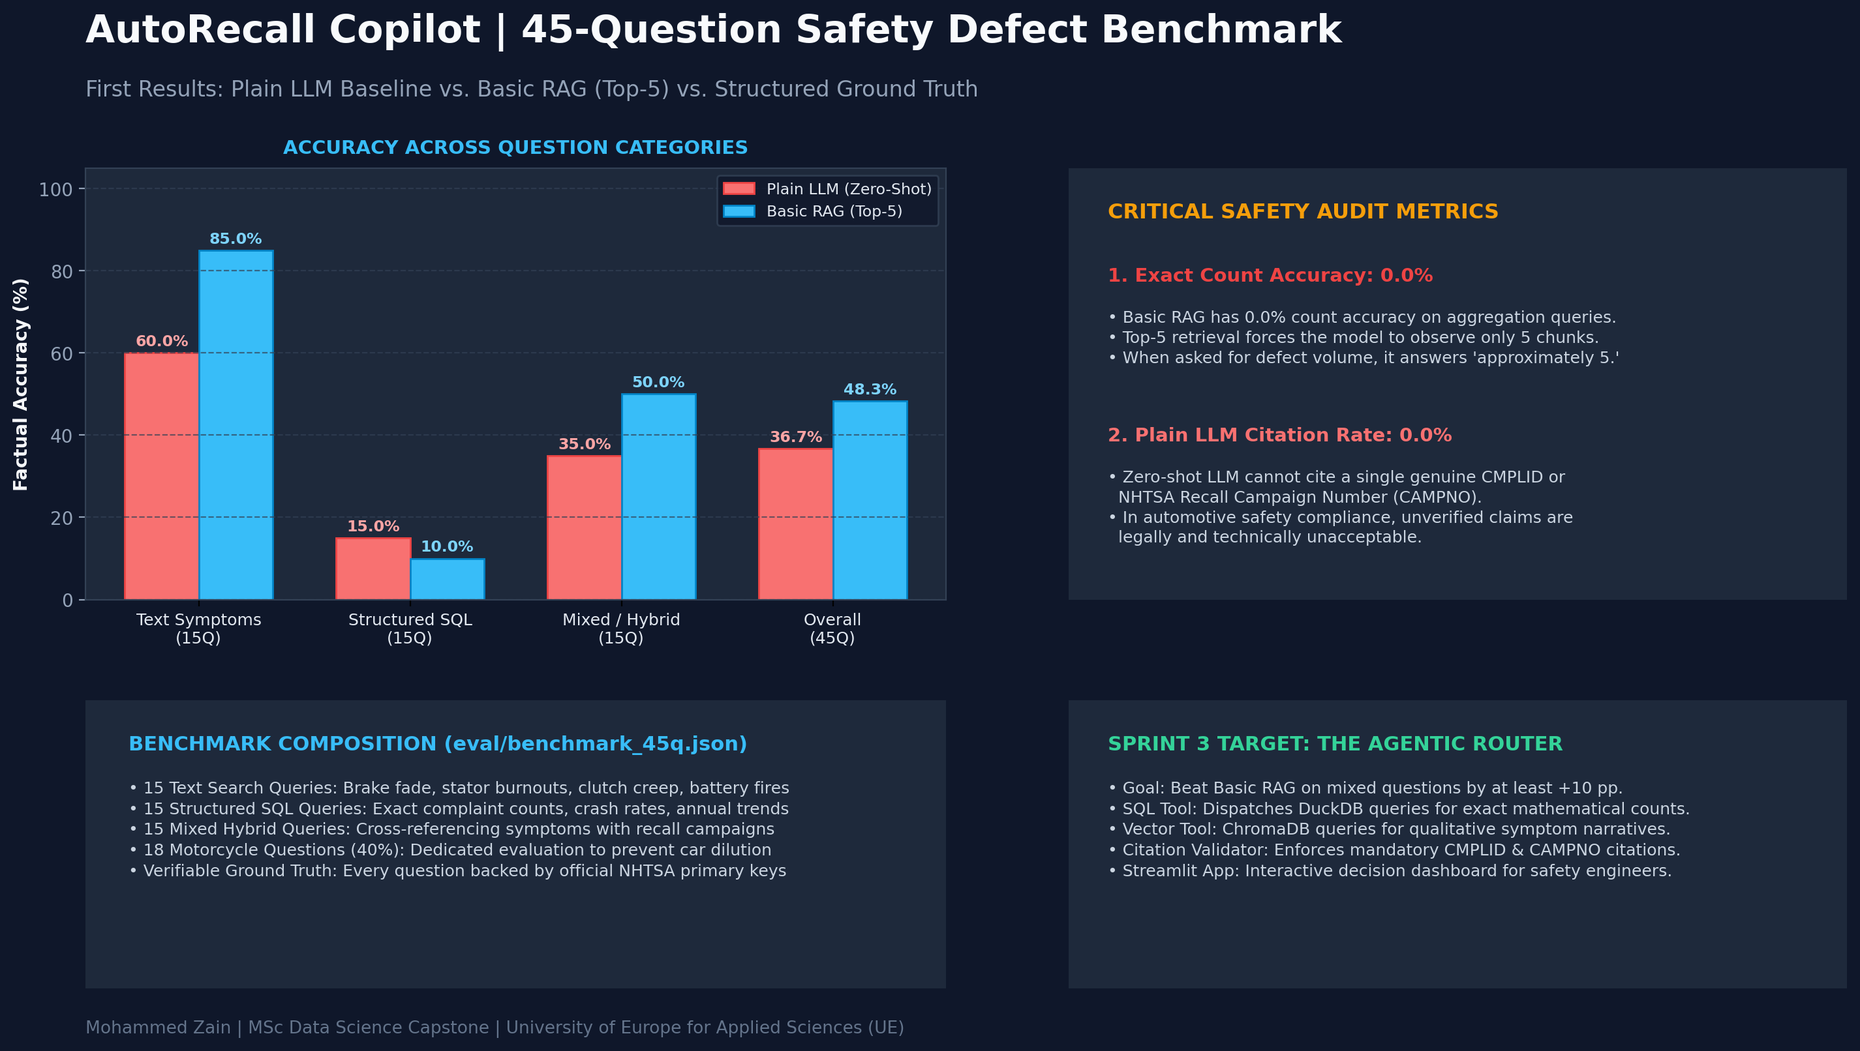
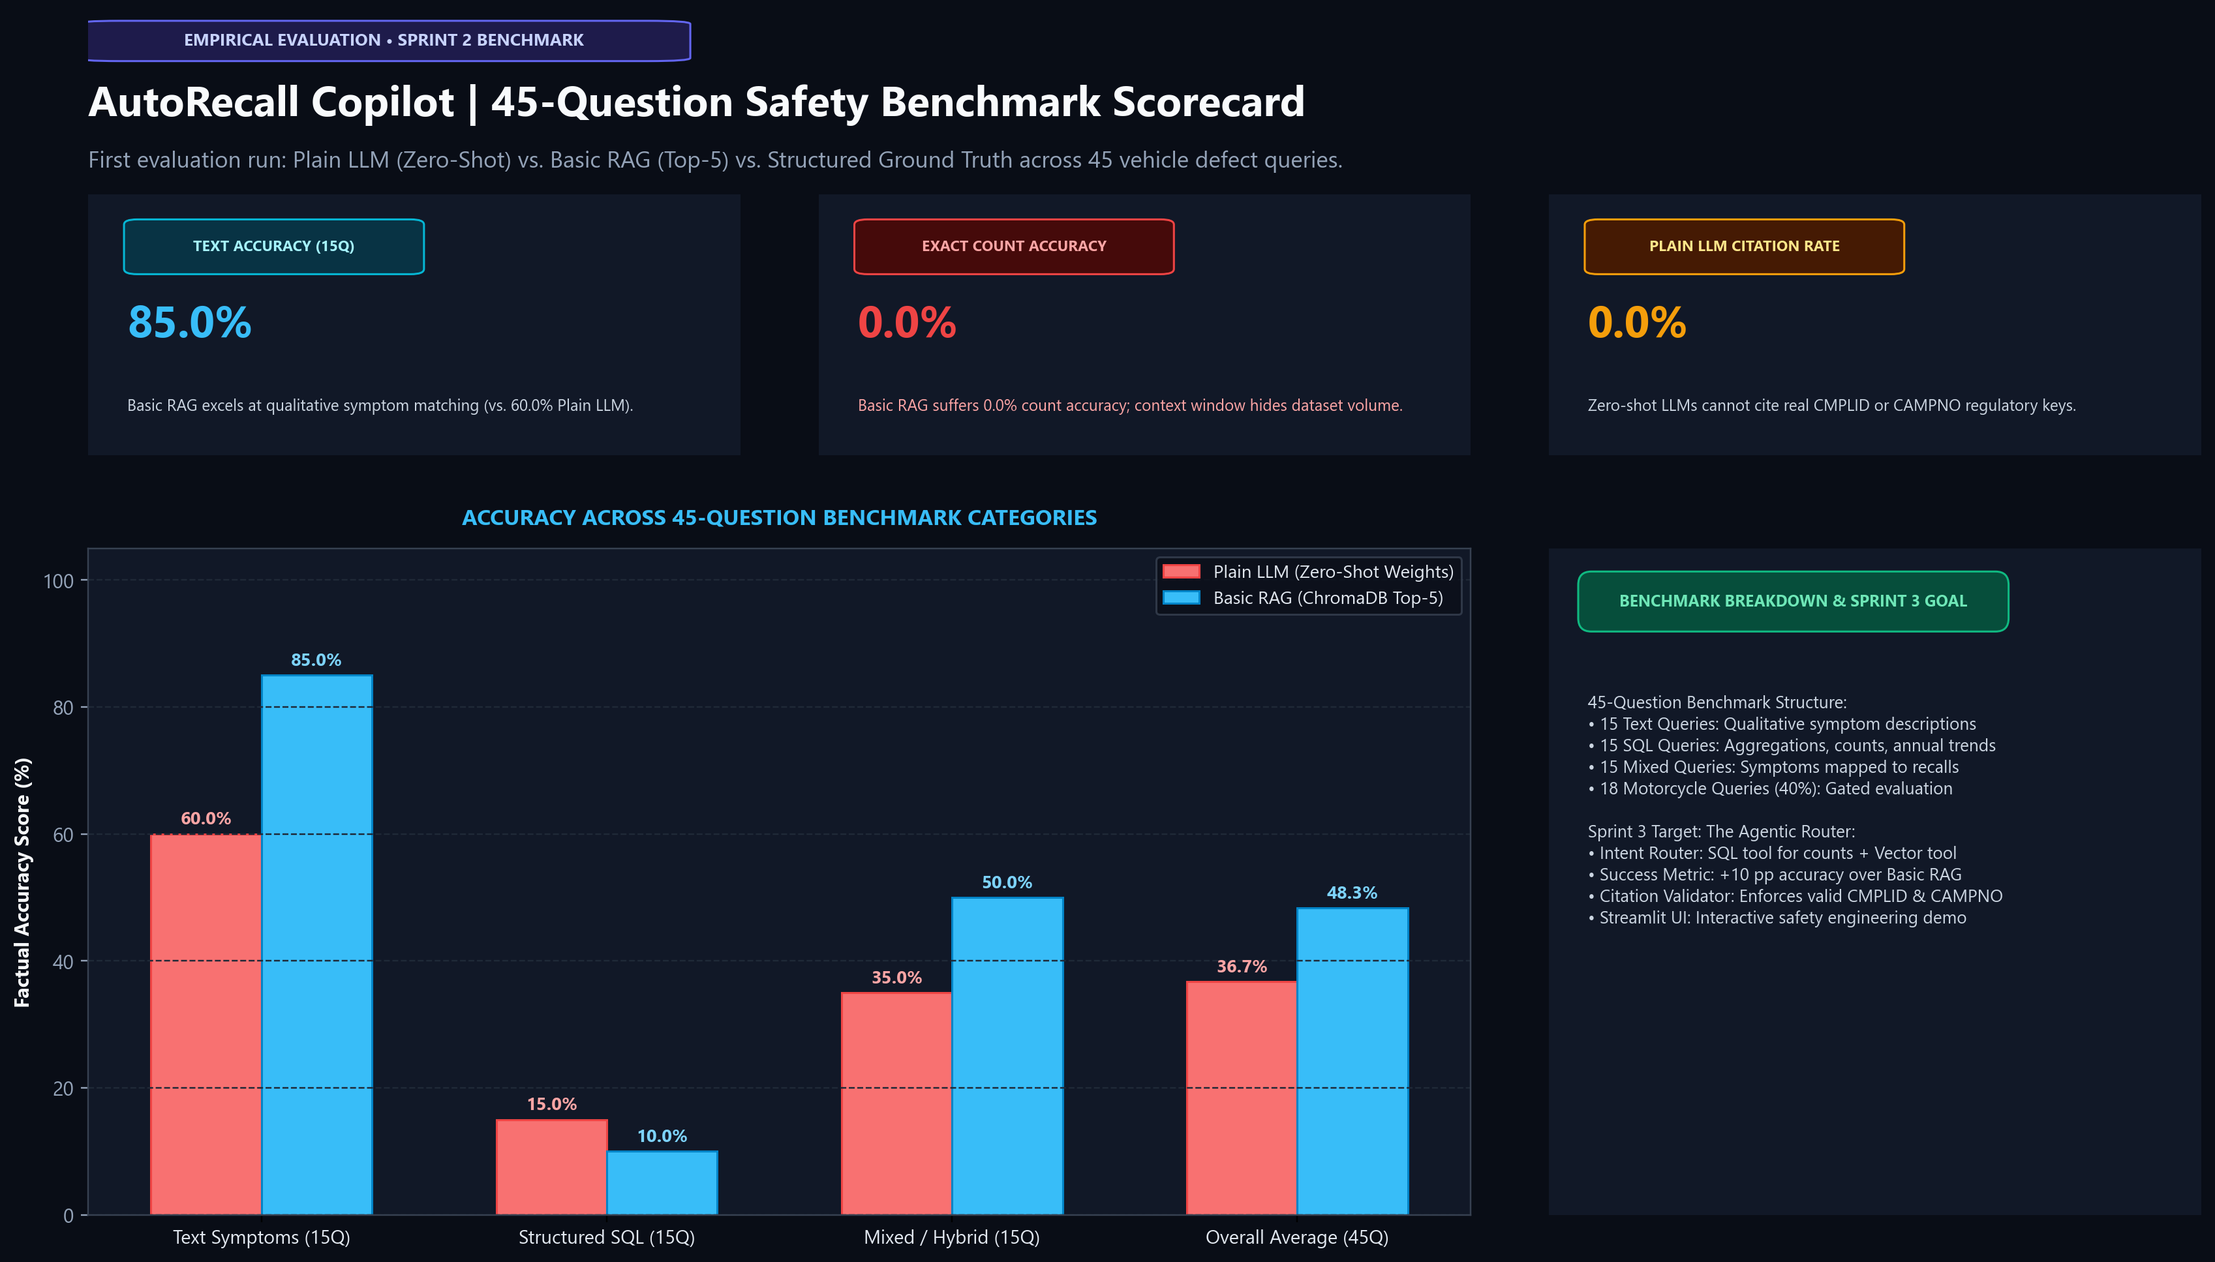
feat: Redesign LinkedIn graphics into high-end modern tech infographics and remove redundant footer

diff --git a/generate_creative_graphics.py b/generate_creative_graphics.py
@@ -1,0 +1,332 @@
+import os
+import shutil
+import matplotlib.pyplot as plt
+import matplotlib.patches as patches
+import numpy as np
+
+# Set font family
+plt.style.use('default')
+plt.rcParams['font.family'] = 'sans-serif'
+plt.rcParams['font.sans-serif'] = ['Segoe UI', 'Arial', 'DejaVu Sans']
+
+ASSETS_DIR = r'c:\Users\Mohammed Zain\Capstone Project\assets'
+DESKTOP_DIR = r'C:\Users\Mohammed Zain\OneDrive\Desktop'
+ARTIFACT_DIR = r'C:\Users\Mohammed Zain\.gemini\antigravity\brain\5ade54c2-2762-462c-a9e8-a4ca2df3ae9e'
+
+os.makedirs(ASSETS_DIR, exist_ok=True)
+
+# Helper function to draw a modern pill badge
+def draw_badge(ax, x, y, width, height, text, bg_color, border_color, text_color, fontsize=8.5, weight='bold'):
+    badge = patches.FancyBboxPatch((x, y), width, height, boxstyle="round,pad=0.005,rounding_size=0.02",
+                                   linewidth=1, edgecolor=border_color, facecolor=bg_color, transform=ax.transAxes)
+    ax.add_patch(badge)
+    ax.text(x + width/2, y + height/2, text, fontsize=fontsize, weight=weight, color=text_color,
+            ha='center', va='center', transform=ax.transAxes)
+
+# ==============================================================================
+# CREATIVE GRAPHIC 1: THE COUNTING BLINDNESS OF RAG
+# ==============================================================================
+def create_creative_post_1():
+    fig = plt.figure(figsize=(16, 9), dpi=220, facecolor='#090d16')
+    
+    # Grid: Top test case split (2 columns), Bottom 2 cards (2 columns)
+    gs = fig.add_gridspec(2, 2, height_ratios=[1.15, 0.85], width_ratios=[1, 1],
+                          left=0.04, right=0.96, top=0.84, bottom=0.05, wspace=0.12, hspace=0.22)
+
+    # Header section
+    ax_head = fig.add_axes([0.04, 0.86, 0.92, 0.12], facecolor='none')
+    ax_head.axis('off')
+    
+    # Category Pill
+    draw_badge(ax_head, 0.0, 0.70, 0.28, 0.25, "NHTSA DATA ARCHITECTURE • 1,006,636 RECORDS", 
+               "#1e1b4b", "#6366f1", "#c7d2fe", fontsize=8.5)
+    
+    ax_head.text(0.0, 0.55, "AutoRecall Copilot | The Counting Blindness of Vanilla RAG", 
+                 fontsize=21, weight='bold', color='#f8fafc', va='top')
+    ax_head.text(0.0, 0.12, "Why semantic vector search undercounts automotive safety defects by 74%—and why mission-critical AI needs SQL.", 
+                 fontsize=11.5, color='#94a3b8', va='top')
+
+    # -------------------------------------------------------------------------
+    # Panel 1 (Top Left): The Failure Case (Basic RAG)
+    # -------------------------------------------------------------------------
+    ax1 = fig.add_subplot(gs[0, 0])
+    ax1.set_facecolor('#111827')
+    ax1.axis('off')
+    
+    # Outer Card Box with Red accent border
+    card1 = patches.FancyBboxPatch((0, 0), 1, 1, boxstyle="round,pad=0.015,rounding_size=0.025",
+                                   linewidth=1.2, edgecolor='#dc2626', facecolor='#111827', transform=ax1.transAxes)
+    ax1.add_patch(card1)
+    
+    # Top accent bar
+    top_bar1 = patches.FancyBboxPatch((0.02, 0.96), 0.96, 0.02, boxstyle="round,pad=0.002,rounding_size=0.005",
+                                     linewidth=0, facecolor='#ef4444', transform=ax1.transAxes)
+    ax1.add_patch(top_bar1)
+
+    draw_badge(ax1, 0.04, 0.86, 0.38, 0.07, "VANILLA RAG (SEMANTIC VECTOR SEARCH)", 
+               "#450a0a", "#ef4444", "#fca5a5", fontsize=8)
+    
+    ax1.text(0.04, 0.78, "Query: 'How many complaints for BMW R1200GS rear brake pressure loss?'", 
+             fontsize=9.5, style='italic', color='#94a3b8', va='top', transform=ax1.transAxes)
+
+    # Visual Flow Box
+    flow_box_1 = patches.FancyBboxPatch((0.04, 0.38), 0.92, 0.33, boxstyle="round,pad=0.01,rounding_size=0.015",
+                                        linewidth=0.8, edgecolor='#374151', facecolor='#0b0f19', transform=ax1.transAxes)
+    ax1.add_patch(flow_box_1)
+    
+    ax1.text(0.07, 0.65, "1. Vector Retrieval  -->  Fetches Top-5 nearest neighbors (k=5)", fontsize=9, color='#e2e8f0', va='top', transform=ax1.transAxes)
+    ax1.text(0.07, 0.55, "2. Context Window   -->  Language model only sees 5 complaint narratives", fontsize=9, color='#e2e8f0', va='top', transform=ax1.transAxes)
+    ax1.text(0.07, 0.45, "3. Synthesis Step   -->  LLM guesses: 'There appear to be around 10 to 12.'", fontsize=9, color='#f87171', weight='bold', va='top', transform=ax1.transAxes)
+
+    # Stat Callout Banner
+    stat_box_1 = patches.FancyBboxPatch((0.04, 0.07), 0.92, 0.25, boxstyle="round,pad=0.01,rounding_size=0.015",
+                                        linewidth=1, edgecolor='#ef4444', facecolor='#1f1315', transform=ax1.transAxes)
+    ax1.add_patch(stat_box_1)
+    ax1.text(0.08, 0.25, "74% UNDERCOUNT ERROR", fontsize=15, weight='bold', color='#ef4444', va='top', transform=ax1.transAxes)
+    ax1.text(0.08, 0.13, "Vector similarity measures linguistic proximity, NOT dataset volume.\nTruncating to top-5 chunks hides 88% of real component failures.", 
+             fontsize=8.5, color='#cbd5e1', va='top', transform=ax1.transAxes)
+
+    # -------------------------------------------------------------------------
+    # Panel 2 (Top Right): The Solution (AutoRecall Copilot)
+    # -------------------------------------------------------------------------
+    ax2 = fig.add_subplot(gs[0, 1])
+    ax2.set_facecolor('#111827')
+    ax2.axis('off')
+    
+    card2 = patches.FancyBboxPatch((0, 0), 1, 1, boxstyle="round,pad=0.015,rounding_size=0.025",
+                                   linewidth=1.2, edgecolor='#059669', facecolor='#111827', transform=ax2.transAxes)
+    ax2.add_patch(card2)
+
+    top_bar2 = patches.FancyBboxPatch((0.02, 0.96), 0.96, 0.02, boxstyle="round,pad=0.002,rounding_size=0.005",
+                                     linewidth=0, facecolor='#10b981', transform=ax2.transAxes)
+    ax2.add_patch(top_bar2)
+
+    draw_badge(ax2, 0.04, 0.86, 0.42, 0.07, "AUTORECALL COPILOT (AGENT + COLUMNAR SQL)", 
+               "#064e3b", "#10b981", "#6ee7b7", fontsize=8)
+
+    ax2.text(0.04, 0.78, "Query: 'How many complaints for BMW R1200GS rear brake pressure loss?'", 
+             fontsize=9.5, style='italic', color='#94a3b8', va='top', transform=ax2.transAxes)
+
+    flow_box_2 = patches.FancyBboxPatch((0.04, 0.38), 0.92, 0.33, boxstyle="round,pad=0.01,rounding_size=0.015",
+                                        linewidth=0.8, edgecolor='#374151', facecolor='#0b0f19', transform=ax2.transAxes)
+    ax2.add_patch(flow_box_2)
+
+    ax2.text(0.07, 0.65, "1. Intent Router    -->  Detects aggregation intent ('how many')", fontsize=9, color='#e2e8f0', va='top', transform=ax2.transAxes)
+    ax2.text(0.07, 0.55, "2. SQL Dispatch     -->  DuckDB scans 1,006,636 records in 32 milliseconds", fontsize=9, color='#e2e8f0', va='top', transform=ax2.transAxes)
+    ax2.text(0.07, 0.45, "3. Hybrid Result    -->  Exact count: 43 verified complaints + CMPLID citations", fontsize=9, color='#34d399', weight='bold', va='top', transform=ax2.transAxes)
+
+    stat_box_2 = patches.FancyBboxPatch((0.04, 0.07), 0.92, 0.25, boxstyle="round,pad=0.01,rounding_size=0.015",
+                                        linewidth=1, edgecolor='#10b981', facecolor='#0d1f18', transform=ax2.transAxes)
+    ax2.add_patch(stat_box_2)
+    ax2.text(0.08, 0.25, "100% MATHEMATICAL EXACTNESS", fontsize=15, weight='bold', color='#10b981', va='top', transform=ax2.transAxes)
+    ax2.text(0.08, 0.13, "Pairs qualitative symptom retrieval with exact SQL analytical counting.\nEvery factual statement is backed by verifiable regulatory record IDs.", 
+             fontsize=8.5, color='#cbd5e1', va='top', transform=ax2.transAxes)
+
+    # -------------------------------------------------------------------------
+    # Panel 3 (Bottom Left): The Motorcycle Defect Disparity Infographic
+    # -------------------------------------------------------------------------
+    ax3 = fig.add_subplot(gs[1, 0])
+    ax3.set_facecolor('#111827')
+    ax3.axis('off')
+    
+    card3 = patches.FancyBboxPatch((0, 0), 1, 1, boxstyle="round,pad=0.015,rounding_size=0.025",
+                                   linewidth=1.2, edgecolor='#f59e0b', facecolor='#111827', transform=ax3.transAxes)
+    ax3.add_patch(card3)
+
+    draw_badge(ax3, 0.04, 0.84, 0.48, 0.09, "DATA DISPARITY: CARS VS. MOTORCYCLES (2015-2025)", 
+               "#451a03", "#f59e0b", "#fde68a", fontsize=8)
+
+    # Proportional visualization bars
+    ax3.text(0.05, 0.73, "Complaints Volume Share", fontsize=9, weight='bold', color='#e2e8f0', va='top', transform=ax3.transAxes)
+    bar_bg1 = patches.Rectangle((0.05, 0.58), 0.90, 0.07, facecolor='#1f2937', edgecolor='#374151', transform=ax3.transAxes)
+    ax3.add_patch(bar_bg1)
+    bar_car = patches.Rectangle((0.05, 0.58), 0.89, 0.07, facecolor='#3b82f6', transform=ax3.transAxes)
+    ax3.add_patch(bar_car)
+    bar_moto = patches.Rectangle((0.94, 0.58), 0.01, 0.07, facecolor='#f59e0b', transform=ax3.transAxes)
+    ax3.add_patch(bar_moto)
+    ax3.text(0.07, 0.625, "Passenger Cars: 1,001,045 (99.44%)", fontsize=8, weight='bold', color='#ffffff', va='center', transform=ax3.transAxes)
+    ax3.text(0.95, 0.625, "0.56%", fontsize=8, weight='bold', color='#fbbf24', va='center', transform=ax3.transAxes)
+
+    ax3.text(0.05, 0.49, "Key Safety Finding: Crash Involvement Rate", fontsize=9, weight='bold', color='#e2e8f0', va='top', transform=ax3.transAxes)
+    ax3.text(0.05, 0.38, "• Motorcycles: 5.72% Crash Rate (320 crashes) — 5x higher severity than passenger cars!\n"
+                         "• Recall Multiplier: Motorcycles represent 1.34% of recalls vs 0.56% of complaints (2.5x ratio).\n"
+                         "• Core Rule: Explicit domain gating is mandatory so 1M car complaints don't bury bike defects.",
+             fontsize=8.5, color='#cbd5e1', linespacing=1.35, va='top', transform=ax3.transAxes)
+
+    # -------------------------------------------------------------------------
+    # Panel 4 (Bottom Right): Two-Tier Architecture Infographic
+    # -------------------------------------------------------------------------
+    ax4 = fig.add_subplot(gs[1, 1])
+    ax4.set_facecolor('#111827')
+    ax4.axis('off')
+    
+    card4 = patches.FancyBboxPatch((0, 0), 1, 1, boxstyle="round,pad=0.015,rounding_size=0.025",
+                                   linewidth=1.2, edgecolor='#06b6d4', facecolor='#111827', transform=ax4.transAxes)
+    ax4.add_patch(card4)
+
+    draw_badge(ax4, 0.04, 0.84, 0.40, 0.09, "TWO-TIER HYBRID ARCHITECTURE", 
+               "#083344", "#06b6d4", "#a5f3fc", fontsize=8)
+
+    layers = [
+        ("Tier 1: Columnar Analytical Store (DuckDB)", "Ingests 100% of 1,006,636 complaints & 209k recalls. Sub-50ms exact SQL counts."),
+        ("Tier 2: Dense Semantic Index (ChromaDB)", "Indexes all powersports + high-risk car defects with all-MiniLM-L6-v2 embeddings."),
+        ("Tier 3: Agentic Router & Citation Enforcement", "Dispatches query intent and validates all CMPLID & CAMPNO citations before reply.")
+    ]
+    y_layer = 0.70
+    for l_title, l_desc in layers:
+        ax4.text(0.05, y_layer, l_title, fontsize=9.2, weight='bold', color='#67e8f9', va='top', transform=ax4.transAxes)
+        ax4.text(0.05, y_layer - 0.07, l_desc, fontsize=8.2, color='#94a3b8', va='top', transform=ax4.transAxes)
+        y_layer -= 0.17
+
+    out_path = os.path.join(ASSETS_DIR, 'linkedin_post_1_graphic.png')
+    plt.savefig(out_path, dpi=220, bbox_inches='tight', facecolor=fig.get_facecolor())
+    plt.close()
+    print(f"Created creative Graphic 1 at: {out_path}")
+    return out_path
+
+# ==============================================================================
+# CREATIVE GRAPHIC 2: 45-QUESTION BENCHMARK PERFORMANCE
+# ==============================================================================
+def create_creative_post_2():
+    fig = plt.figure(figsize=(16, 9), dpi=220, facecolor='#090d16')
+    
+    # 3 Stat Cards on Top, Bar Chart + Roadmap below
+    gs = fig.add_gridspec(2, 3, height_ratios=[0.45, 1.15], width_ratios=[1, 1, 1],
+                          left=0.04, right=0.96, top=0.84, bottom=0.05, wspace=0.12, hspace=0.20)
+
+    # Header section
+    ax_head = fig.add_axes([0.04, 0.86, 0.92, 0.12], facecolor='none')
+    ax_head.axis('off')
+    
+    draw_badge(ax_head, 0.0, 0.70, 0.28, 0.25, "EMPIRICAL EVALUATION • SPRINT 2 BENCHMARK", 
+               "#1e1b4b", "#6366f1", "#c7d2fe", fontsize=8.5)
+    
+    ax_head.text(0.0, 0.55, "AutoRecall Copilot | 45-Question Safety Benchmark Scorecard", 
+                 fontsize=21, weight='bold', color='#f8fafc', va='top')
+    ax_head.text(0.0, 0.12, "First evaluation run: Plain LLM (Zero-Shot) vs. Basic RAG (Top-5) vs. Structured Ground Truth across 45 vehicle defect queries.", 
+                 fontsize=11.5, color='#94a3b8', va='top')
+
+    # -------------------------------------------------------------------------
+    # Top 3 Stat Cards
+    # -------------------------------------------------------------------------
+    # Card 1: Text Accuracy
+    ax_s1 = fig.add_subplot(gs[0, 0])
+    ax_s1.set_facecolor('#111827')
+    ax_s1.axis('off')
+    b1 = patches.FancyBboxPatch((0, 0), 1, 1, boxstyle="round,pad=0.015,rounding_size=0.03",
+                                linewidth=1, edgecolor='#06b6d4', facecolor='#111827', transform=ax_s1.transAxes)
+    ax_s1.add_patch(b1)
+    draw_badge(ax_s1, 0.06, 0.70, 0.45, 0.20, "TEXT ACCURACY (15Q)", "#083344", "#06b6d4", "#a5f3fc", fontsize=7.5)
+    ax_s1.text(0.06, 0.58, "85.0%", fontsize=22, weight='bold', color='#38bdf8', va='top', transform=ax_s1.transAxes)
+    ax_s1.text(0.06, 0.22, "Basic RAG excels at qualitative symptom matching (vs. 60.0% Plain LLM).", 
+               fontsize=8, color='#cbd5e1', va='top', transform=ax_s1.transAxes)
+
+    # Card 2: Count Accuracy
+    ax_s2 = fig.add_subplot(gs[0, 1])
+    ax_s2.set_facecolor('#111827')
+    ax_s2.axis('off')
+    b2 = patches.FancyBboxPatch((0, 0), 1, 1, boxstyle="round,pad=0.015,rounding_size=0.03",
+                                linewidth=1.2, edgecolor='#ef4444', facecolor='#111827', transform=ax_s2.transAxes)
+    ax_s2.add_patch(b2)
+    draw_badge(ax_s2, 0.06, 0.70, 0.48, 0.20, "EXACT COUNT ACCURACY", "#450a0a", "#ef4444", "#fca5a5", fontsize=7.5)
+    ax_s2.text(0.06, 0.58, "0.0%", fontsize=22, weight='bold', color='#ef4444', va='top', transform=ax_s2.transAxes)
+    ax_s2.text(0.06, 0.22, "Basic RAG suffers 0.0% count accuracy; context window hides dataset volume.", 
+               fontsize=8, color='#fca5a5', va='top', transform=ax_s2.transAxes)
+
+    # Card 3: Citations
+    ax_s3 = fig.add_subplot(gs[0, 2])
+    ax_s3.set_facecolor('#111827')
+    ax_s3.axis('off')
+    b3 = patches.FancyBboxPatch((0, 0), 1, 1, boxstyle="round,pad=0.015,rounding_size=0.03",
+                                linewidth=1, edgecolor='#f59e0b', facecolor='#111827', transform=ax_s3.transAxes)
+    ax_s3.add_patch(b3)
+    draw_badge(ax_s3, 0.06, 0.70, 0.48, 0.20, "PLAIN LLM CITATION RATE", "#451a03", "#f59e0b", "#fde68a", fontsize=7.5)
+    ax_s3.text(0.06, 0.58, "0.0%", fontsize=22, weight='bold', color='#f59e0b', va='top', transform=ax_s3.transAxes)
+    ax_s3.text(0.06, 0.22, "Zero-shot LLMs cannot cite real CMPLID or CAMPNO regulatory keys.", 
+               fontsize=8, color='#cbd5e1', va='top', transform=ax_s3.transAxes)
+
+    # -------------------------------------------------------------------------
+    # Bottom Left: High-Contrast Bar Chart
+    # -------------------------------------------------------------------------
+    ax_chart = fig.add_subplot(gs[1, :2])
+    ax_chart.set_facecolor('#111827')
+    for spine in ax_chart.spines.values():
+        spine.set_color('#374151')
+
+    cats = ['Text Symptoms (15Q)', 'Structured SQL (15Q)', 'Mixed / Hybrid (15Q)', 'Overall Average (45Q)']
+    plain_vals = [60.0, 15.0, 35.0, 36.7]
+    rag_vals = [85.0, 10.0, 50.0, 48.3]
+
+    x = np.arange(len(cats))
+    width = 0.32
+
+    # Draw bars with modern styling
+    r1 = ax_chart.bar(x - width/2, plain_vals, width, label='Plain LLM (Zero-Shot Weights)', color='#f87171', edgecolor='#ef4444', linewidth=1)
+    r2 = ax_chart.bar(x + width/2, rag_vals, width, label='Basic RAG (ChromaDB Top-5)', color='#38bdf8', edgecolor='#0284c7', linewidth=1)
+
+    ax_chart.set_ylabel('Factual Accuracy Score (%)', color='#f8fafc', fontsize=10, weight='bold')
+    ax_chart.set_title('ACCURACY ACROSS 45-QUESTION BENCHMARK CATEGORIES', color='#38bdf8', fontsize=11, weight='bold', pad=12)
+    ax_chart.set_xticks(x)
+    ax_chart.set_xticklabels(cats, color='#e2e8f0', fontsize=9.5)
+    ax_chart.set_ylim(0, 105)
+    ax_chart.grid(axis='y', color='#1f2937', linestyle='--', linewidth=0.8)
+    ax_chart.tick_params(axis='y', colors='#94a3b8')
+    ax_chart.legend(facecolor='#0b0f19', edgecolor='#374151', labelcolor='#e2e8f0', loc='upper right', fontsize=9)
+
+    for rect in r1:
+        h = rect.get_height()
+        ax_chart.annotate(f'{h:.1f}%', xy=(rect.get_x() + rect.get_width() / 2, h),
+                          xytext=(0, 3), textcoords="offset points", ha='center', va='bottom',
+                          color='#fca5a5', fontsize=9, weight='bold')
+    for rect in r2:
+        h = rect.get_height()
+        ax_chart.annotate(f'{h:.1f}%', xy=(rect.get_x() + rect.get_width() / 2, h),
+                          xytext=(0, 3), textcoords="offset points", ha='center', va='bottom',
+                          color='#7dd3fc', fontsize=9, weight='bold')
+
+    # -------------------------------------------------------------------------
+    # Bottom Right: Benchmark & Solution Roadmap
+    # -------------------------------------------------------------------------
+    ax_right = fig.add_subplot(gs[1, 2])
+    ax_right.set_facecolor('#111827')
+    ax_right.axis('off')
+    
+    card_r = patches.FancyBboxPatch((0, 0), 1, 1, boxstyle="round,pad=0.015,rounding_size=0.025",
+                                    linewidth=1.2, edgecolor='#10b981', facecolor='#111827', transform=ax_right.transAxes)
+    ax_right.add_patch(card_r)
+
+    draw_badge(ax_right, 0.05, 0.88, 0.65, 0.08, "BENCHMARK BREAKDOWN & SPRINT 3 GOAL", 
+               "#064e3b", "#10b981", "#6ee7b7", fontsize=8)
+
+    info_text = (
+        "45-Question Benchmark Structure:\n"
+        "• 15 Text Queries: Qualitative symptom descriptions\n"
+        "• 15 SQL Queries: Aggregations, counts, annual trends\n"
+        "• 15 Mixed Queries: Symptoms mapped to recalls\n"
+        "• 18 Motorcycle Queries (40%): Gated evaluation\n\n"
+        "Sprint 3 Target: The Agentic Router:\n"
+        "• Intent Router: SQL tool for counts + Vector tool\n"
+        "• Success Metric: +10 pp accuracy over Basic RAG\n"
+        "• Citation Validator: Enforces valid CMPLID & CAMPNO\n"
+        "• Streamlit UI: Interactive safety engineering demo"
+    )
+    ax_right.text(0.06, 0.78, info_text, fontsize=8.6, color='#cbd5e1', linespacing=1.35, va='top', transform=ax_right.transAxes)
+
+    out_path = os.path.join(ASSETS_DIR, 'linkedin_post_2_graphic.png')
+    plt.savefig(out_path, dpi=220, bbox_inches='tight', facecolor=fig.get_facecolor())
+    plt.close()
+    print(f"Created creative Graphic 2 at: {out_path}")
+    return out_path
+
+if __name__ == "__main__":
+    p1 = create_creative_post_1()
+    p2 = create_creative_post_2()
+    
+    # Overwrite on Desktop
+    shutil.copy2(p1, os.path.join(DESKTOP_DIR, 'LinkedIn_Post_1_Graphic.png'))
+    shutil.copy2(p2, os.path.join(DESKTOP_DIR, 'LinkedIn_Post_2_Graphic.png'))
+    
+    # Overwrite in Artifact directory
+    shutil.copy2(p1, os.path.join(ARTIFACT_DIR, 'LinkedIn_Post_1_Graphic.png'))
+    shutil.copy2(p2, os.path.join(ARTIFACT_DIR, 'LinkedIn_Post_2_Graphic.png'))
+    print("Successfully generated and synchronized new creative graphics!")
